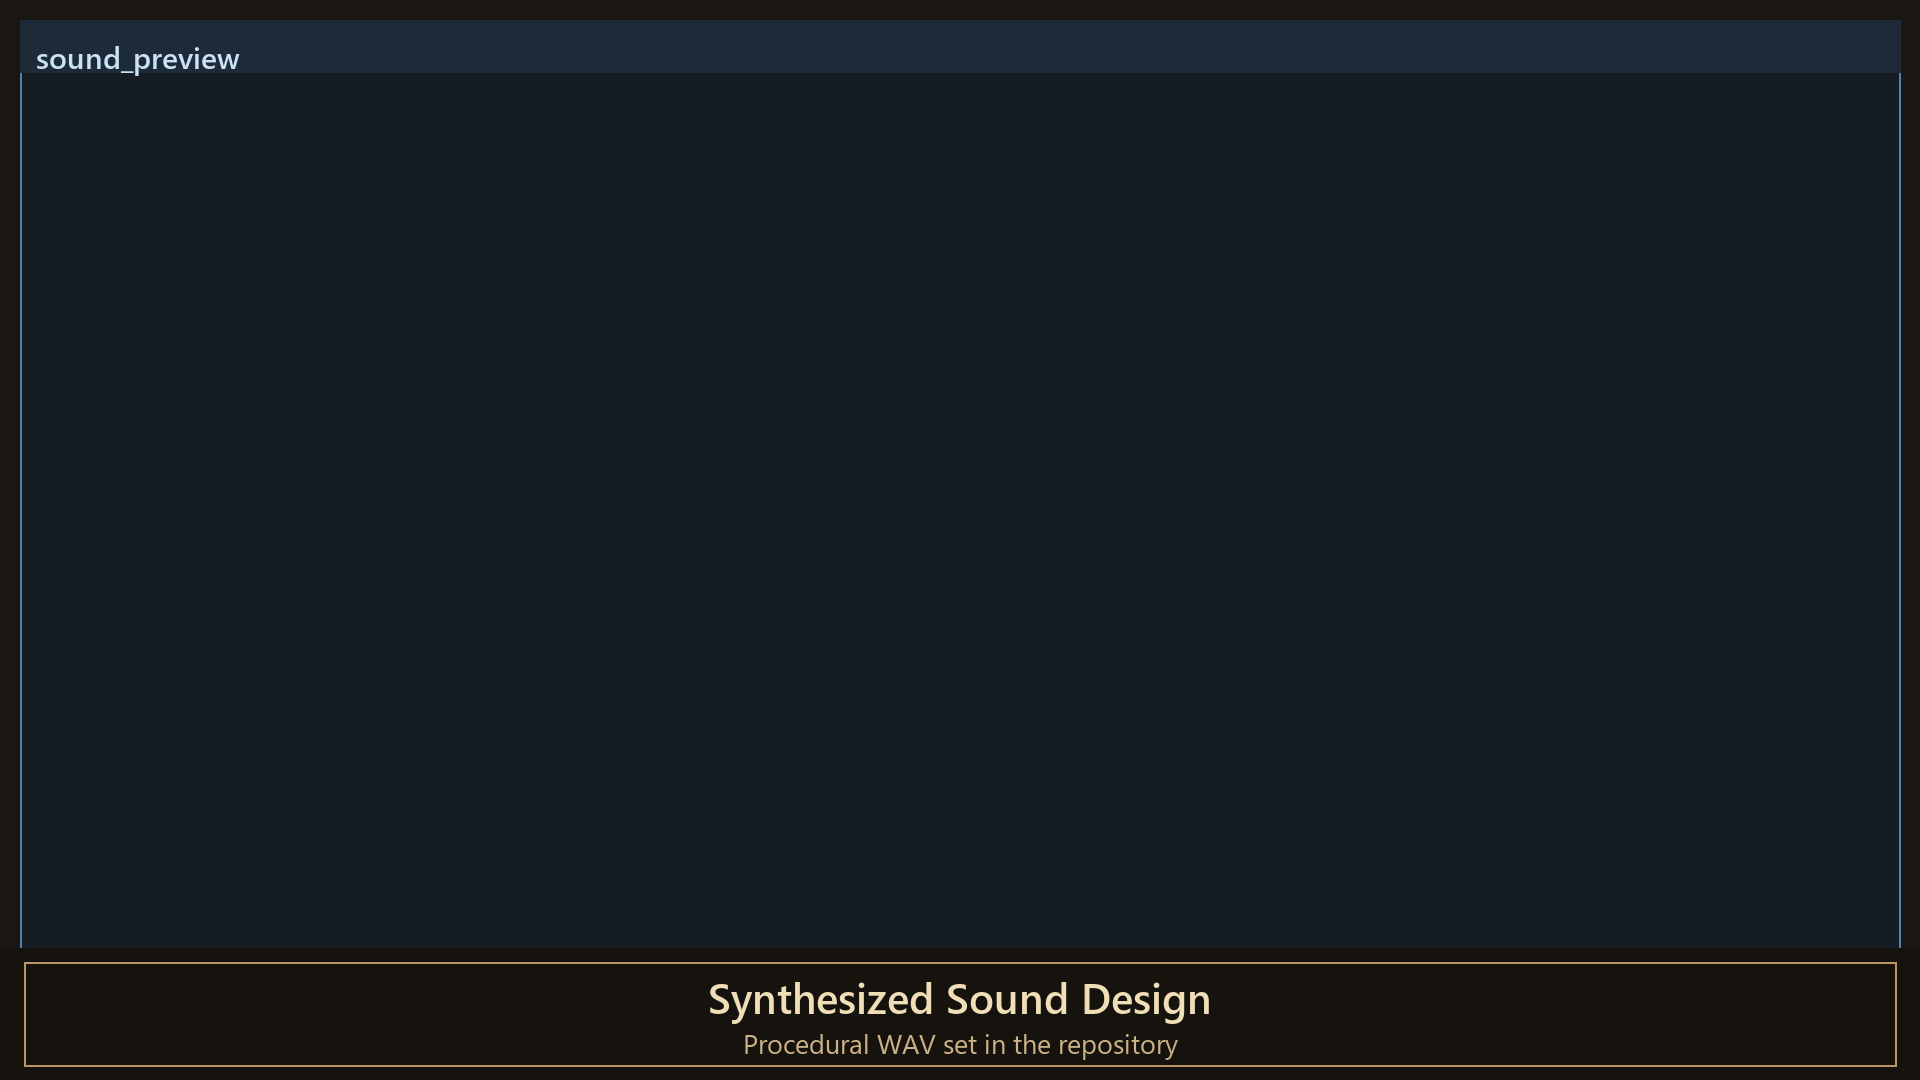
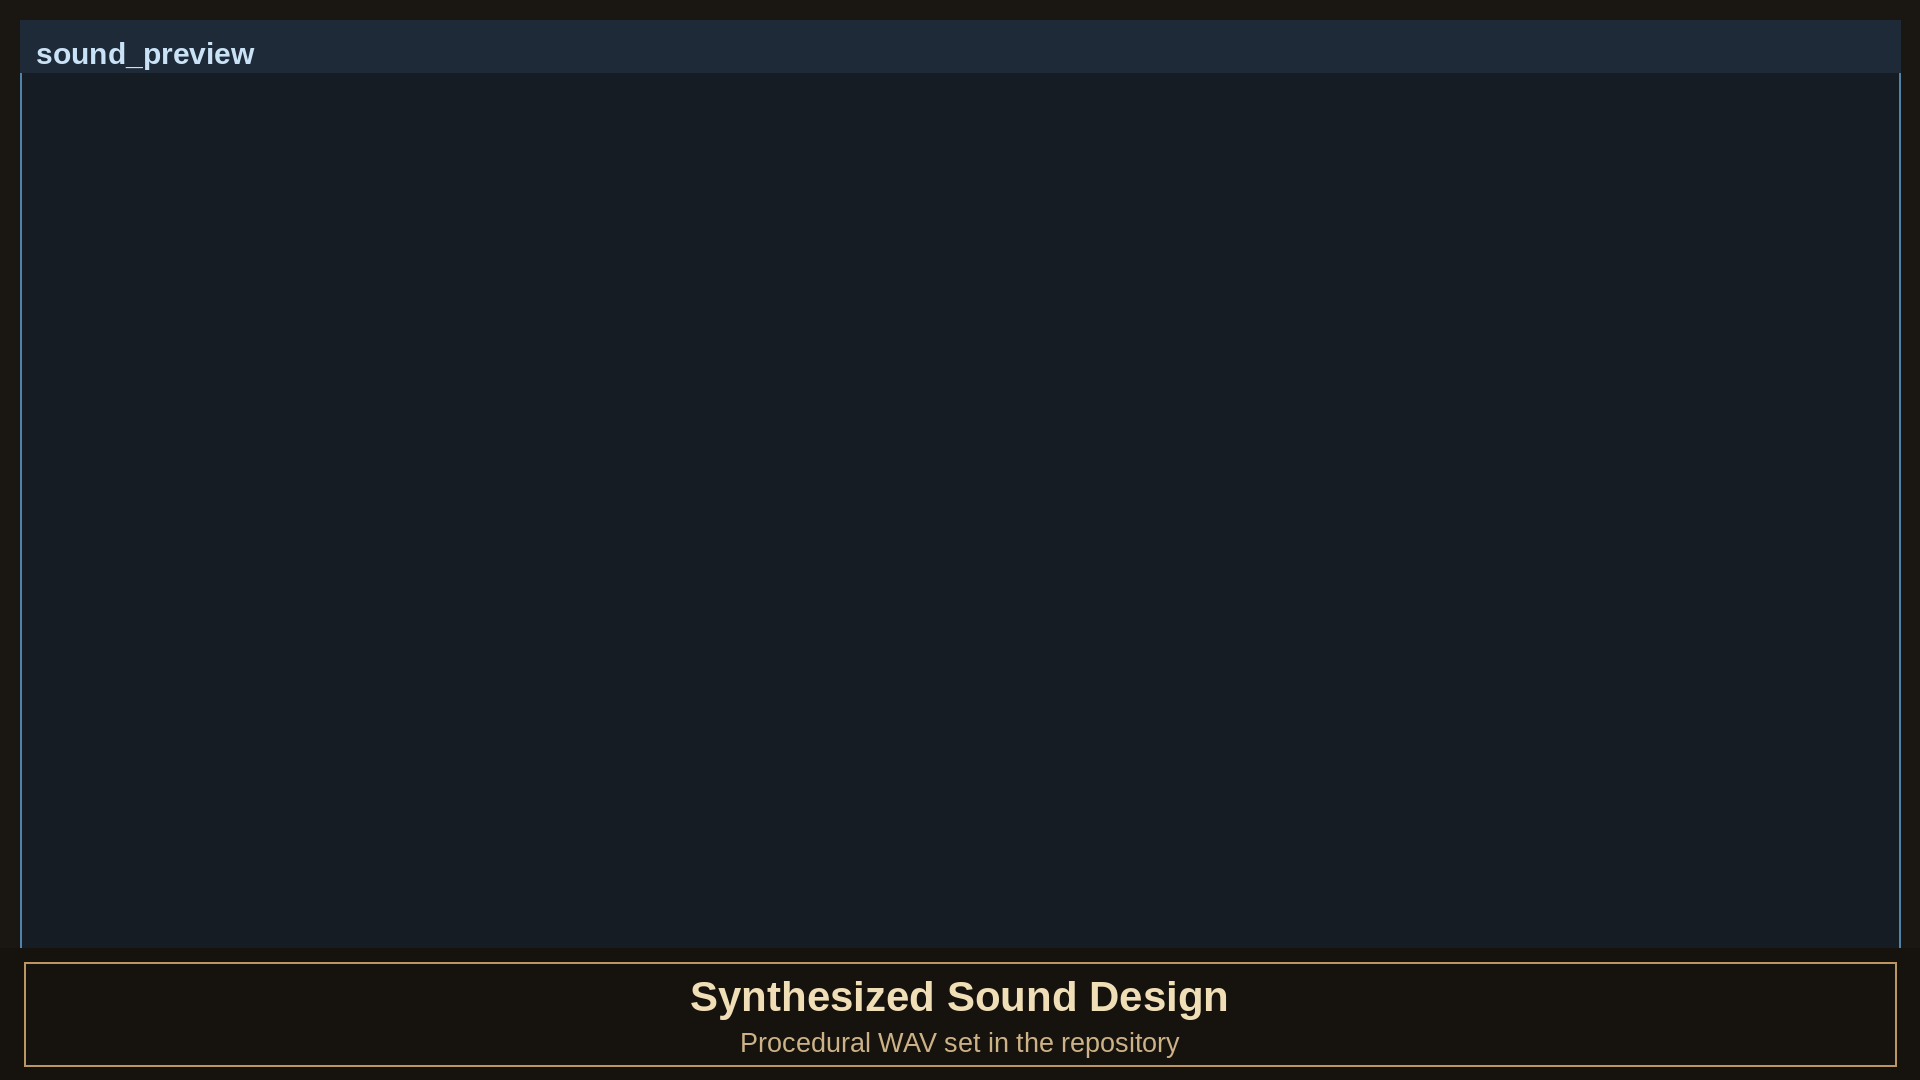
Docs — README: record GP/DP conformance passes and refresh doc screenshots
Document the Guild (GP1-GP17) and Demon Door (DP1-DP5) conformance passes in
the README, with links to each pass's detailed doc and an explicit note that
all of it is validated offline only and remains unverified against a Bedrock
engine.

Make the documentation renderer's font lookup portable. The candidate list held
only Windows faces (Segoe UI / Arial), so on Linux every lookup missed and PIL
fell back to its default bitmap font, losing title scale and word spacing.
Liberation and DejaVu are appended as metric-compatible fallbacks; the Windows
faces are still tried first so existing platforms render unchanged.

Regenerate the 22 documentation screenshots. INDEX.md is left at its committed
CRLF form because its content is unchanged.

Changed region(s): [[0.3438, 0.8861, 0.6562, 0.9778], [0.0, 0.0306, 0.125, 0.0611]]

diff --git a/scripts/gen_doc_screenshots.py b/scripts/gen_doc_screenshots.py
@@ -215,7 +215,14 @@ def compose_structure_scene(struct_name, mobs=(), effects=(), mood=None, veil=No
 # ---------------------------------------------------------------------------
 
 def load_font(size, bold=False):
-    names = ["seguisb.ttf", "segoeuib.ttf", "arialbd.ttf"] if bold else ["segoeui.ttf", "arial.ttf"]
+    # Windows faces first so renders stay identical to previously published sets.
+    # Liberation/DejaVu are the metric-compatible Linux fallbacks: without them a
+    # Linux render silently drops to PIL's tiny default bitmap font, which loses
+    # both the title scale and word spacing.
+    names = (["seguisb.ttf", "segoeuib.ttf", "arialbd.ttf",
+              "LiberationSans-Bold.ttf", "DejaVuSans-Bold.ttf"] if bold else
+             ["segoeui.ttf", "arial.ttf",
+              "LiberationSans-Regular.ttf", "DejaVuSans.ttf"])
     for name in names:
         try:
             return ImageFont.truetype(name, size)

diff --git a/scripts/gen_screenshots.py b/scripts/gen_screenshots.py
@@ -333,7 +333,10 @@ def backdrop(size, mood):
 
 
 def load_font(sz):
-    for name in ("seguisb.ttf", "segoeuib.ttf", "arialbd.ttf", "arial.ttf"):
+    # Trailing Liberation/DejaVu entries keep Linux renders on a real
+    # proportional face instead of PIL's default bitmap font.
+    for name in ("seguisb.ttf", "segoeuib.ttf", "arialbd.ttf", "arial.ttf",
+                 "LiberationSans-Bold.ttf", "DejaVuSans-Bold.ttf"):
         try:
             return ImageFont.truetype(name, sz)
         except OSError:

diff --git a/README.md b/README.md
@@ -160,12 +160,79 @@ Eight ancient doors are scattered across the world, each a living stone face car
 
 Beyond the doors, **9 structures** dot Albion — the walled Heroes' Guild (Cullis Gate + training grounds), the Arena, Temple of Avo, Chapel of Skorm, Twinblade's palisaded war-camp, Lychfield graveyard, focus sites, silver-chest ruins and Demon Door crags — all stocked with **lootable chests** and blended into the terrain.
 
+**The doors are becoming walk-through.** The Guild lamp door now opens into a designed reward world of its own — the Library Arcanum — with per-visitor rooms, durable paid history and an exact-source return arch. Details and current limits are in [TLC Conformance](#-tlc-conformance--rebuilding-the-guild) below.
+
 ### The Heroes' Guild
 
 The Guild is a single connected campus on a curved river. You wake in the domed **Map Room** — the Cullis Gate and Skill Shrine glow in its western nooks — and a single open-arched grand stair climbs to the upper gallery without blocking the four arched doorways that join the Library, Dining Hall and Store. The **Dining Hall** seats two long banquet tables down its length; a grand riverside **stone staircase** with railings and a landing descends from the upper terrace to a gravel **promenade that wraps the whole complex**, knitting every bridge and the **Four Graves** memorial garden (laid out as a `+` around an eternal flame). **Maze's Tower** is now three floors: a wall-hugging spiral past book-lined walls, candles, lecterns and framed art up to Maze's study, with suits of armour standing guard at its two entrances and a north archway opening onto monuments and flower beds. Across the river the **Archery Range** (targets now correctly outside the kitchen wall), **Dueling Ring** and a richly-stocked **Kitchen / Dormitory** sit beside the water. Outside the west gate a **Trader** works a covered cart (random wares *and* vanity titles), and a red carpet leads up the **Boasting Platform** — step onto the stage and, depending on your Renown, the Guild's folk gather to watch you declare your title (an unknown draws a handful; the truly renowned draw the whole campus, cheering). Far beneath, a fixed spiral stair winds down to the **Chamber of Fate** and its flat warded Cullis dais.
 
+Much of this campus has since been rebuilt against original 2005 references — see [TLC Conformance](#-tlc-conformance--rebuilding-the-guild) below for what changed in the Map Room, Library, Chamber of Fate, training grounds and dormitory, and for what remains unverified in-game.
+
 ![Temple of Avo](screenshots/docs/13_temple_avo_donation.png)
 ![Places of Power](screenshots/gallery/places.png)
+
+---
+
+## 🏛 TLC Conformance — Rebuilding the Guild
+
+Work since v2.4.0 runs through a **conformance queue** that measures the addon against the
+original 2005 *Fable: The Lost Chapters* — not the Anniversary remake, the sequels or the
+reboot. Each pass inspects period screenshots and the original Prima guide, lands as its own
+reviewed milestone commit, and records its exact scope, evidence and remaining defects in
+[the priority ledger](docs/GUILD_DEMON_PRIORITIES.md).
+
+**Guild passes (GP1–GP17)**
+
+- **Halls & circulation.** The lobby, upper gallery, dining hall and Maze's tower stairs are
+  joined by continuous half-step routes, and the broad Library and Store archways stand open
+  again after redundant indoor tunnel shells were removed.
+  ([circulation](docs/GUILD_CIRCULATION.md), [hall links](docs/GUILD_HALL_LINKS.md))
+- **The map table.** The Map Room's random jewel mosaic and beacon are replaced by a low
+  wood-framed land-and-sea relief, with every adjacent interaction preserved.
+  ([map table](docs/GUILD_MAP_TABLE.md))
+- **The Library.** Continuous framed bookcases, an accessible reading desk and properly
+  supported lamps furnish the room without disturbing the spine, cave or commons routes.
+  ([library interior](docs/GUILD_LIBRARY_INTERIOR.md))
+- **The Chamber of Fate.** New cave and Chamber construction is journalled and resumable.
+  Bright placeholder posts gave way to attached pointed wall bays, dark masonry and high
+  lamps, then to nested inset panels, carved marks, colored window strips and muted
+  grey/ochre paving drawn from neutral reference views.
+  ([chamber interior](docs/GUILD_CHAMBER_INTERIOR.md), [neutral details](docs/GUILD_CHAMBER_NEUTRAL_DETAILS.md), [cave lifecycle](docs/GUILD_CAVE_LIFECYCLE.md))
+- **Training grounds.** Training sessions are single-acquisition with real interruption
+  handling; Will apprentices practise harmless island lightning while Might alone fills the
+  sparring ring; the archery range regained its painted valley backboard; and Skill practice
+  now preflights the live target, its support and every crossed cell of the firing lane
+  before it fires.
+  ([training](docs/GUILD_TRAINING.md), [Will training](docs/GUILD_WILL_TRAINING.md), [archery backboard](docs/GUILD_ARCHERY_BACKBOARD.md), [Skill preflight](docs/GUILD_SKILL_PREFLIGHT.md))
+- **Residents & upkeep.** Twelve Guild residents keep durable identities across reloads
+  instead of respawning by proximity, Guild defence targets the actual offender rather than
+  every Hero present, and the old destructive repair sweeps that bulldozed saved
+  construction are retired.
+  ([residents](docs/GUILD_RESIDENTS.md), [defence](docs/GUILD_DEFENCE.md), [maintenance](docs/GUILD_MAINTENANCE.md))
+- **Dormitory.** The erased final northeast stair tread is restored, completing the ascent to
+  the upper deck. ([dormitory stairs](docs/GUILD_DORM_STAIRS.md))
+- **Romance & marriage.** Deferred proposal and divorce responses revalidate the current
+  requester, ownership and eligibility before they mutate anything, so a competing proposal
+  cannot quietly steal a partner or spend a second wedding ring.
+
+**Demon Door passes (DP1–DP5)**
+
+The first walk-through Demon Door reward world is in place. The Guild lamp door opens into the
+**Library Arcanum** — an isolated, individually designed room with its own collectibles and an
+exact-source return arch. Rooms are allocated per visitor, paid history survives lost or
+recreated ledgers, a single durable source owns the Guild-side door face so stale hints cannot
+mint unkeyed doors, and occupied rooms keep their break, build, explosion and world-generation
+guards even after ledger loss or replacement.
+([Library Arcanum](docs/LIBRARY_ARCANUM.md), [door design](docs/DEMON_DOOR_DESIGN.md), [room protections](docs/LIBRARY_ARCANUM_PROTECTIONS.md))
+
+> **Verification status — read this before believing the list above.** These passes are
+> validated **offline only**: generator, structure and runtime test groups plus rendered
+> checkpoints. **No Minecraft Bedrock engine has run against them.** Lighting, fluids, stair
+> collision, native NPC movement and interruption, portal travel, persistence and collection
+> are therefore **unverified in-game** — they have never passed, not merely gone unrecorded.
+> Reference photography is used to study the original; chosen block adaptations are recorded
+> separately from what those screenshots actually show, and a passing structural hash does
+> not close a fidelity gap.
 
 ---
 
@@ -258,6 +325,7 @@ Fablecraft is content-complete on its **core systems** and actively growing its 
 **In progress**
 
 - 🏗 **Finishing the locations.** The Heroes' Guild is a complete, hand-built campus; **Bowerstone, Oakvale and Snowspire** so far exist as factions, guards and dialogue rather than fully walkable towns. Next: build the three settlements out as explorable hubs, then flesh out the Arena, Lychfield graveyard, and the interiors of the Temple of Avo and Chapel of Skorm.
+- 🏛 **TLC conformance queue.** A running series of reviewed passes rebuilding the Heroes' Guild and the Demon Door reward worlds against original 2005 references, tracked in [the priority ledger](docs/GUILD_DEMON_PRIORITIES.md). Offline validation is in place; engine acceptance for every pass is still outstanding.
 - 🧠 **Updating behaviours.** Deeper NPC daily routines (day/night schedules, shop hours, crowd gathering), smarter guard pathing and arrest logic, and continued multiplayer-sync hardening so every per-player system reads correctly in co-op.
 - 🔮 **Will & Destiny Phases 2–3.** Migrate the remaining classic spells onto the new modular Will engine and add the outstanding physique/appearance morphs. Current state, schema and test plan: [WILL_AND_DESTINY_PHASE1.md](WILL_AND_DESTINY_PHASE1.md).
 
@@ -336,4 +404,5 @@ use original names and pass the planned branding validator. Existing `dist/`
 archives are legacy development builds and are not approved for public release.
 
 Conformance work is tracked in [the plan](docs/CONFORMANCE_PLAN.md),
-[the checklist](docs/CONFORMANCE_CHECKLIST.md) and [the continuation handoff](docs/HANDOFF.md).
+[the checklist](docs/CONFORMANCE_CHECKLIST.md), [the Guild/Demon Door priority ledger](docs/GUILD_DEMON_PRIORITIES.md)
+and [the continuation handoff](docs/HANDOFF.md).
